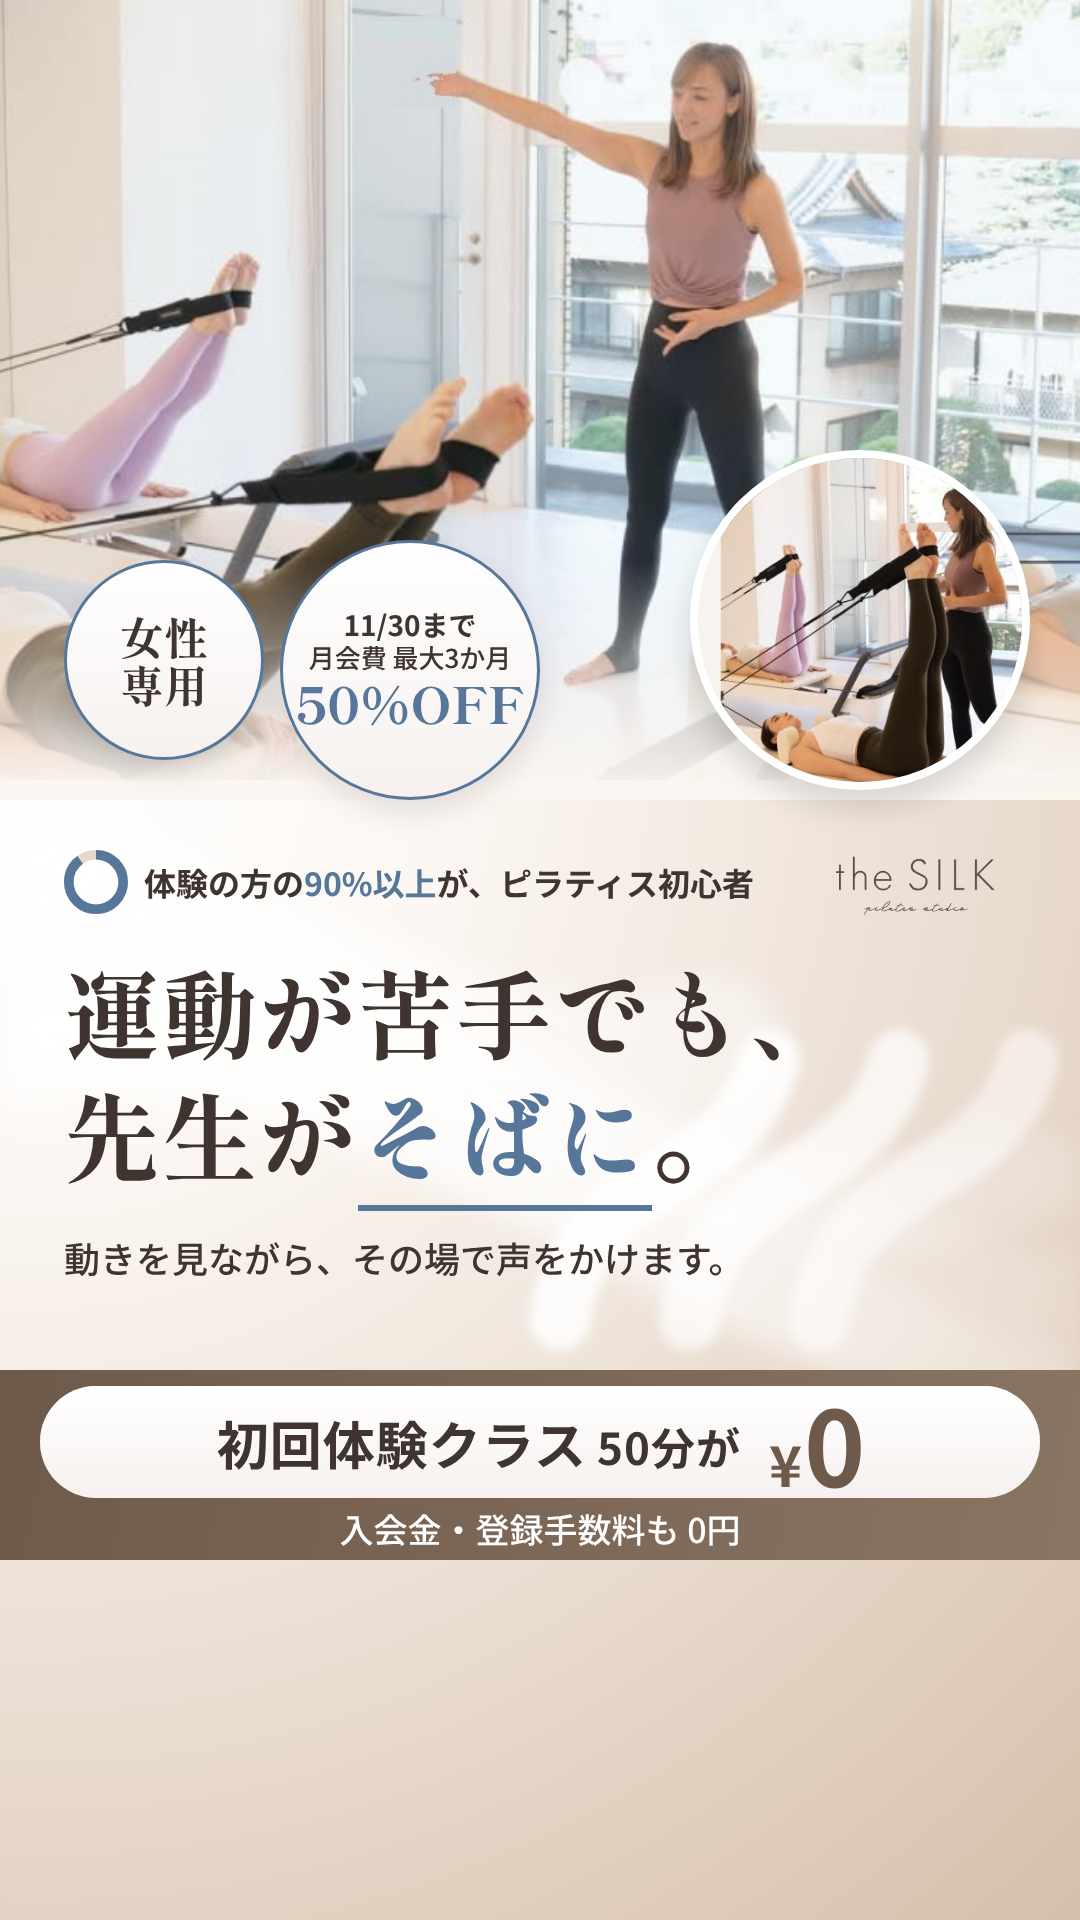
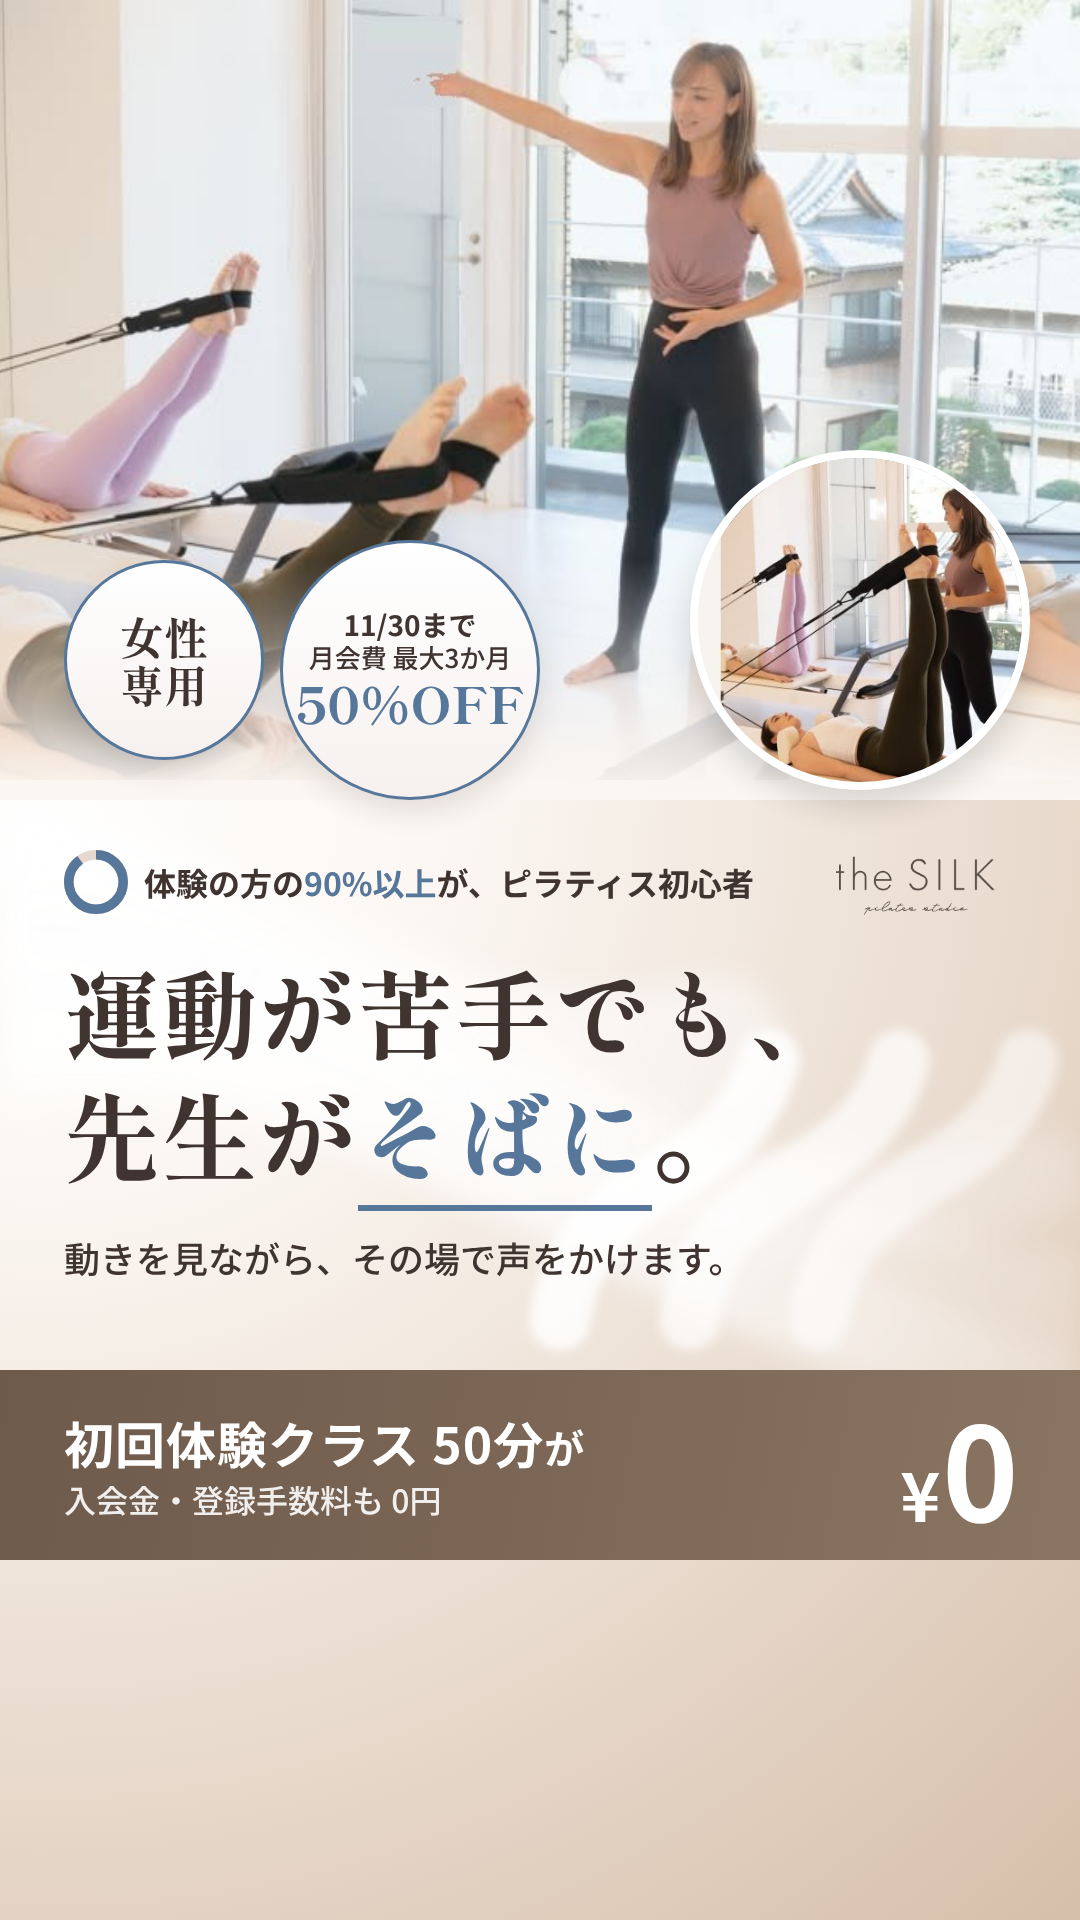
Restore original band layout, emphasize trial class line
Claude-Session: https://claude.ai/code/session_018a2Y1cQo96aQ6MP8FDrBaU

Changed region(s): [[0.0306, 0.7188, 0.9778, 0.8125]]

diff --git a/silk_banner_1130/src_チェックリスト版/gen.py b/silk_banner_1130/src_チェックリスト版/gen.py
@@ -27,11 +27,9 @@ def lead90(x,y,t,w=None,fs=32,two=False):
   return f'<div style="position: absolute; left: {x}px; top: {y}px; display: flex; align-items: center; gap: 16px; font-size: {fs}px; font-weight: 700; color: {TXT}; line-height: 1.4">{PIE.format(s=fs*2,soft=t["soft"],ac=t["ac"])}<span>体験の方の<span style="color: {t["ac"]}">90%以上</span>が{br}ピラティス初心者</span></div>'
 def band(top,t,ever):
   l2='ウェア・ソックスの貸出あり' if ever else '入会金・登録手数料も 0円'
-  return (f'<div style="position: absolute; left: 0; right: 0; top: {top}px; height: 190px; box-sizing: border-box; padding: 16px 40px 0 40px; background: linear-gradient(100deg, {t["b1"]} 0%, {t["b2"]} 100%); color: #FFFFFF; display: flex; flex-direction: column; align-items: center; gap: 6px; z-index: 6">'
-   f'<div style="display: flex; align-items: center; justify-content: center; gap: 28px; width: 1000px; height: 112px; box-sizing: border-box; border-radius: 56px; background: linear-gradient(180deg, #FFFFFF 0%, #F6F1EF 100%); box-shadow: inset 0 1px 0 rgba(255,255,255,0.95); color: {TXT}">'
-   f'<span style="font-size: 52px; font-weight: 700; letter-spacing: 0.02em">初回体験クラス<span style="font-size: 44px; margin-left: 10px">50分が</span></span>'
-   f'<span style="font-weight: 800; font-size: 104px; line-height: 1; color: {t["b1"]}; letter-spacing: -0.02em"><span style="font-size: 56px; margin-right: 4px">¥</span>0</span></div>'
-   f'<div style="font-size: 34px; font-weight: 500">{l2}</div></div>')
+  return (f'<div style="position: absolute; left: 0; right: 0; top: {top}px; height: 190px; box-sizing: border-box; padding: 0 64px; background: linear-gradient(100deg, {t["b1"]} 0%, {t["b2"]} 100%); color: #FFFFFF; display: flex; align-items: center; justify-content: space-between; z-index: 6">'
+   f'<div style="display: flex; flex-direction: column; gap: 4px; line-height: 1.3"><div style="font-size: 50px; font-weight: 700; letter-spacing: 0.02em">初回体験クラス 50分<span style="font-size: 40px">が</span></div><div style="font-size: 32px; font-weight: 500; opacity: 0.9">{l2}</div></div>'
+   f'<div style="font-weight: 700; font-size: 130px; line-height: 1; letter-spacing: -0.02em"><span style="font-size: 68px; margin-right: 4px">¥</span>0</div></div>')
 def h1(x,y,html,fs,lh=1.28,w=None,extra=''):
   return f'<h1 style="position: absolute; left: {x}px; top: {y}px; margin: 0; {M}; font-weight: 800; font-size: {fs}px; line-height: {lh}; letter-spacing: 0.02em; color: {TXT}; white-space: nowrap; {extra}">{html}</h1>'
 def sub(x,y,html,fs=34):
